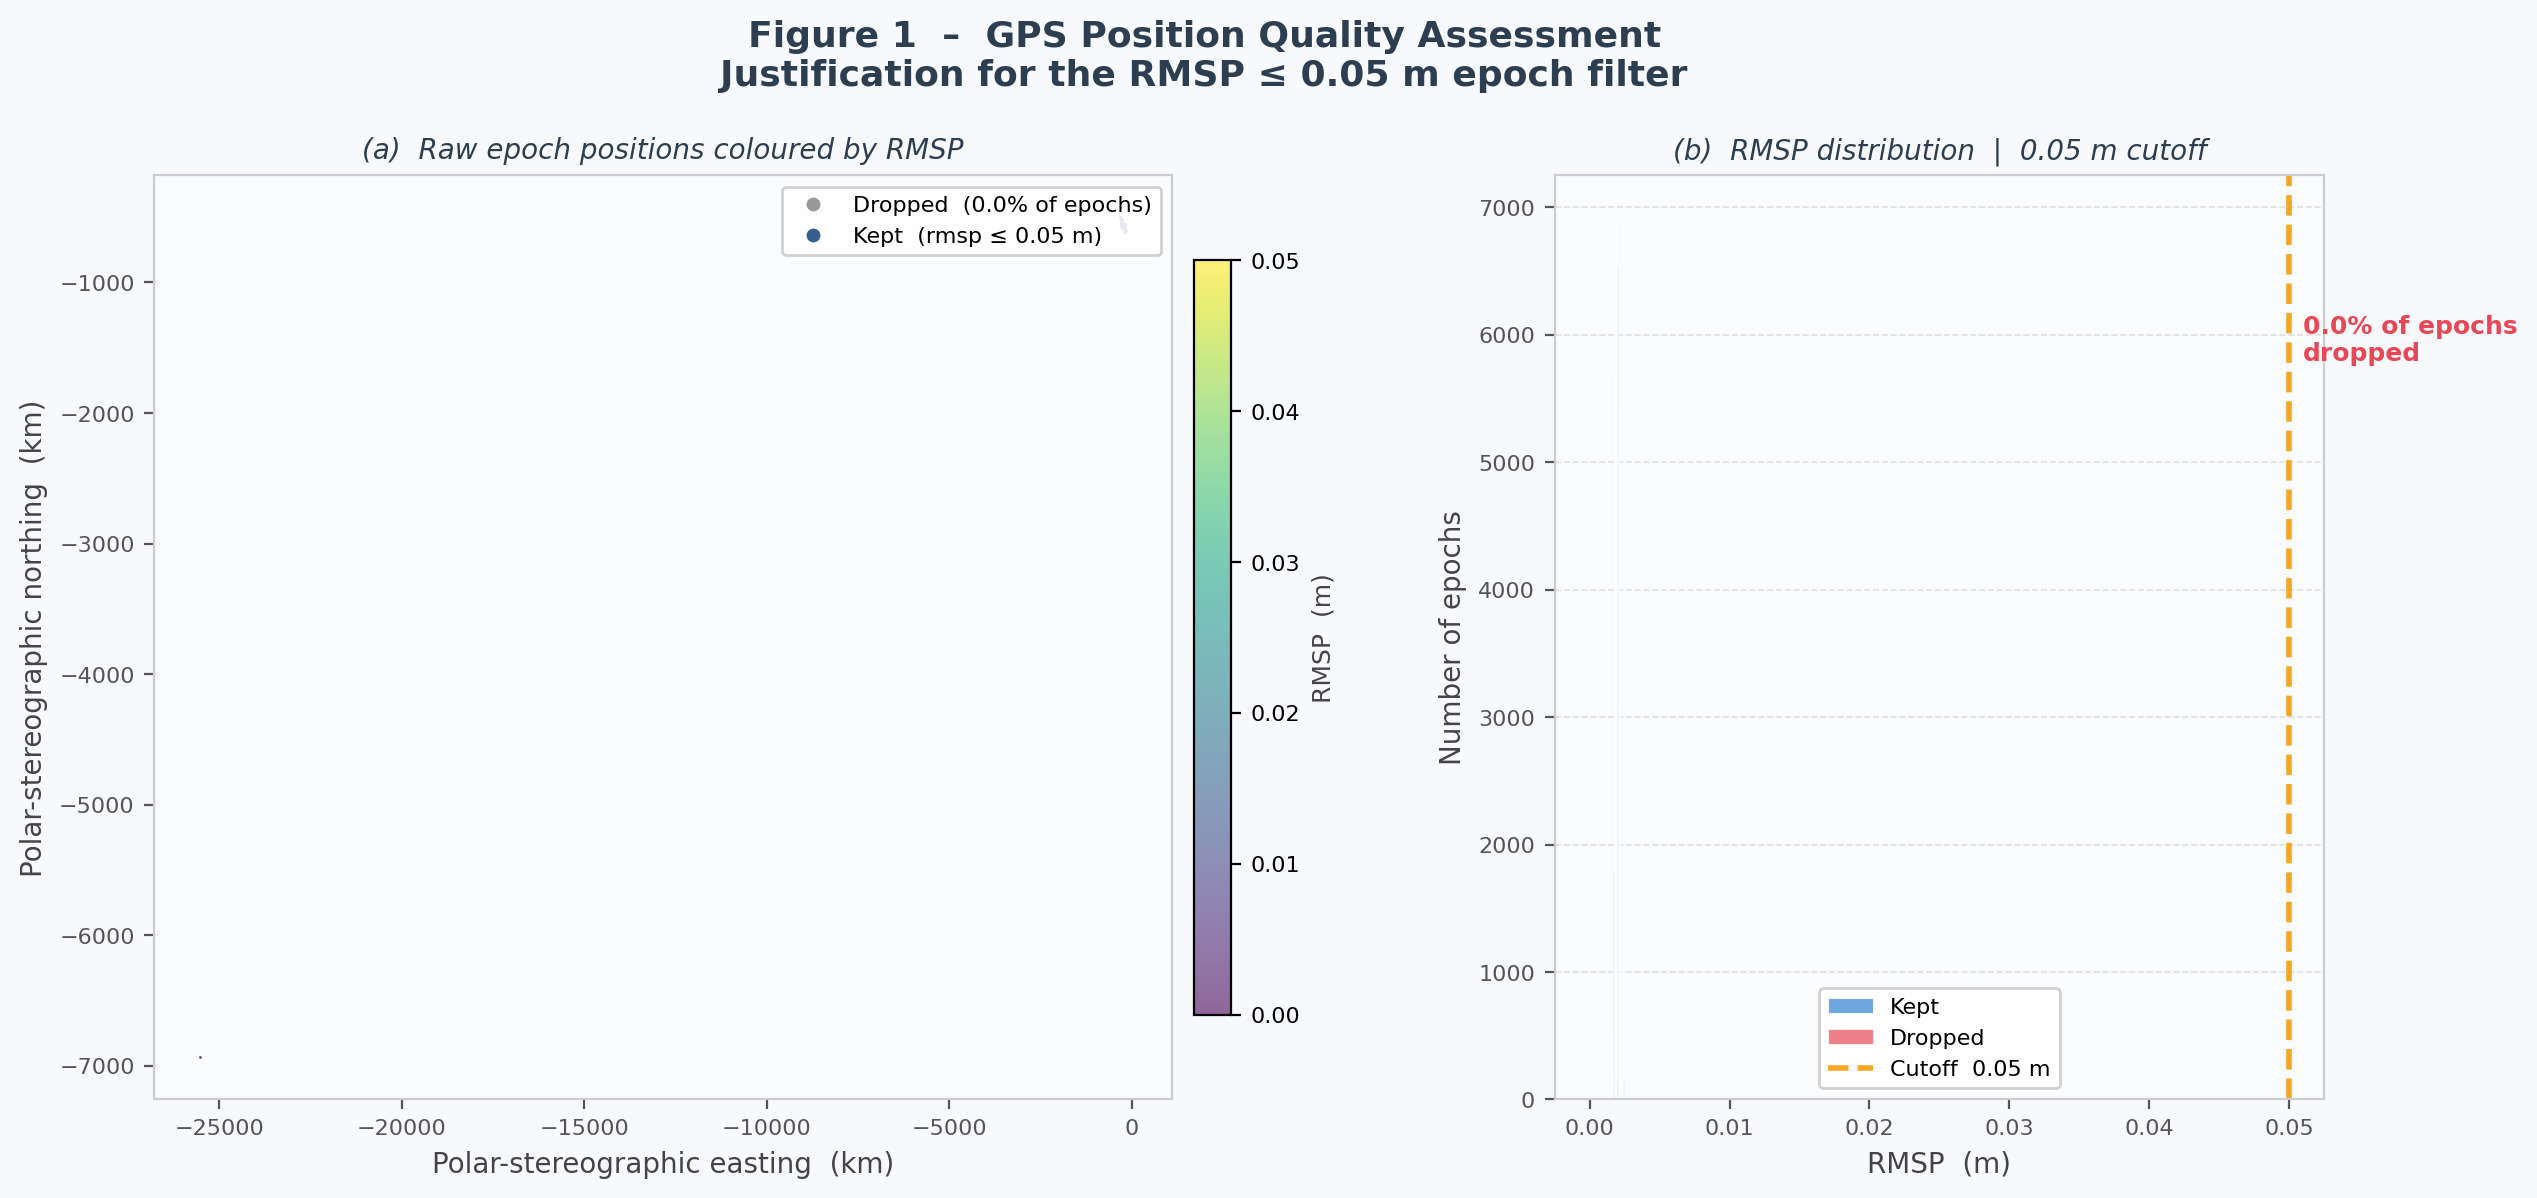
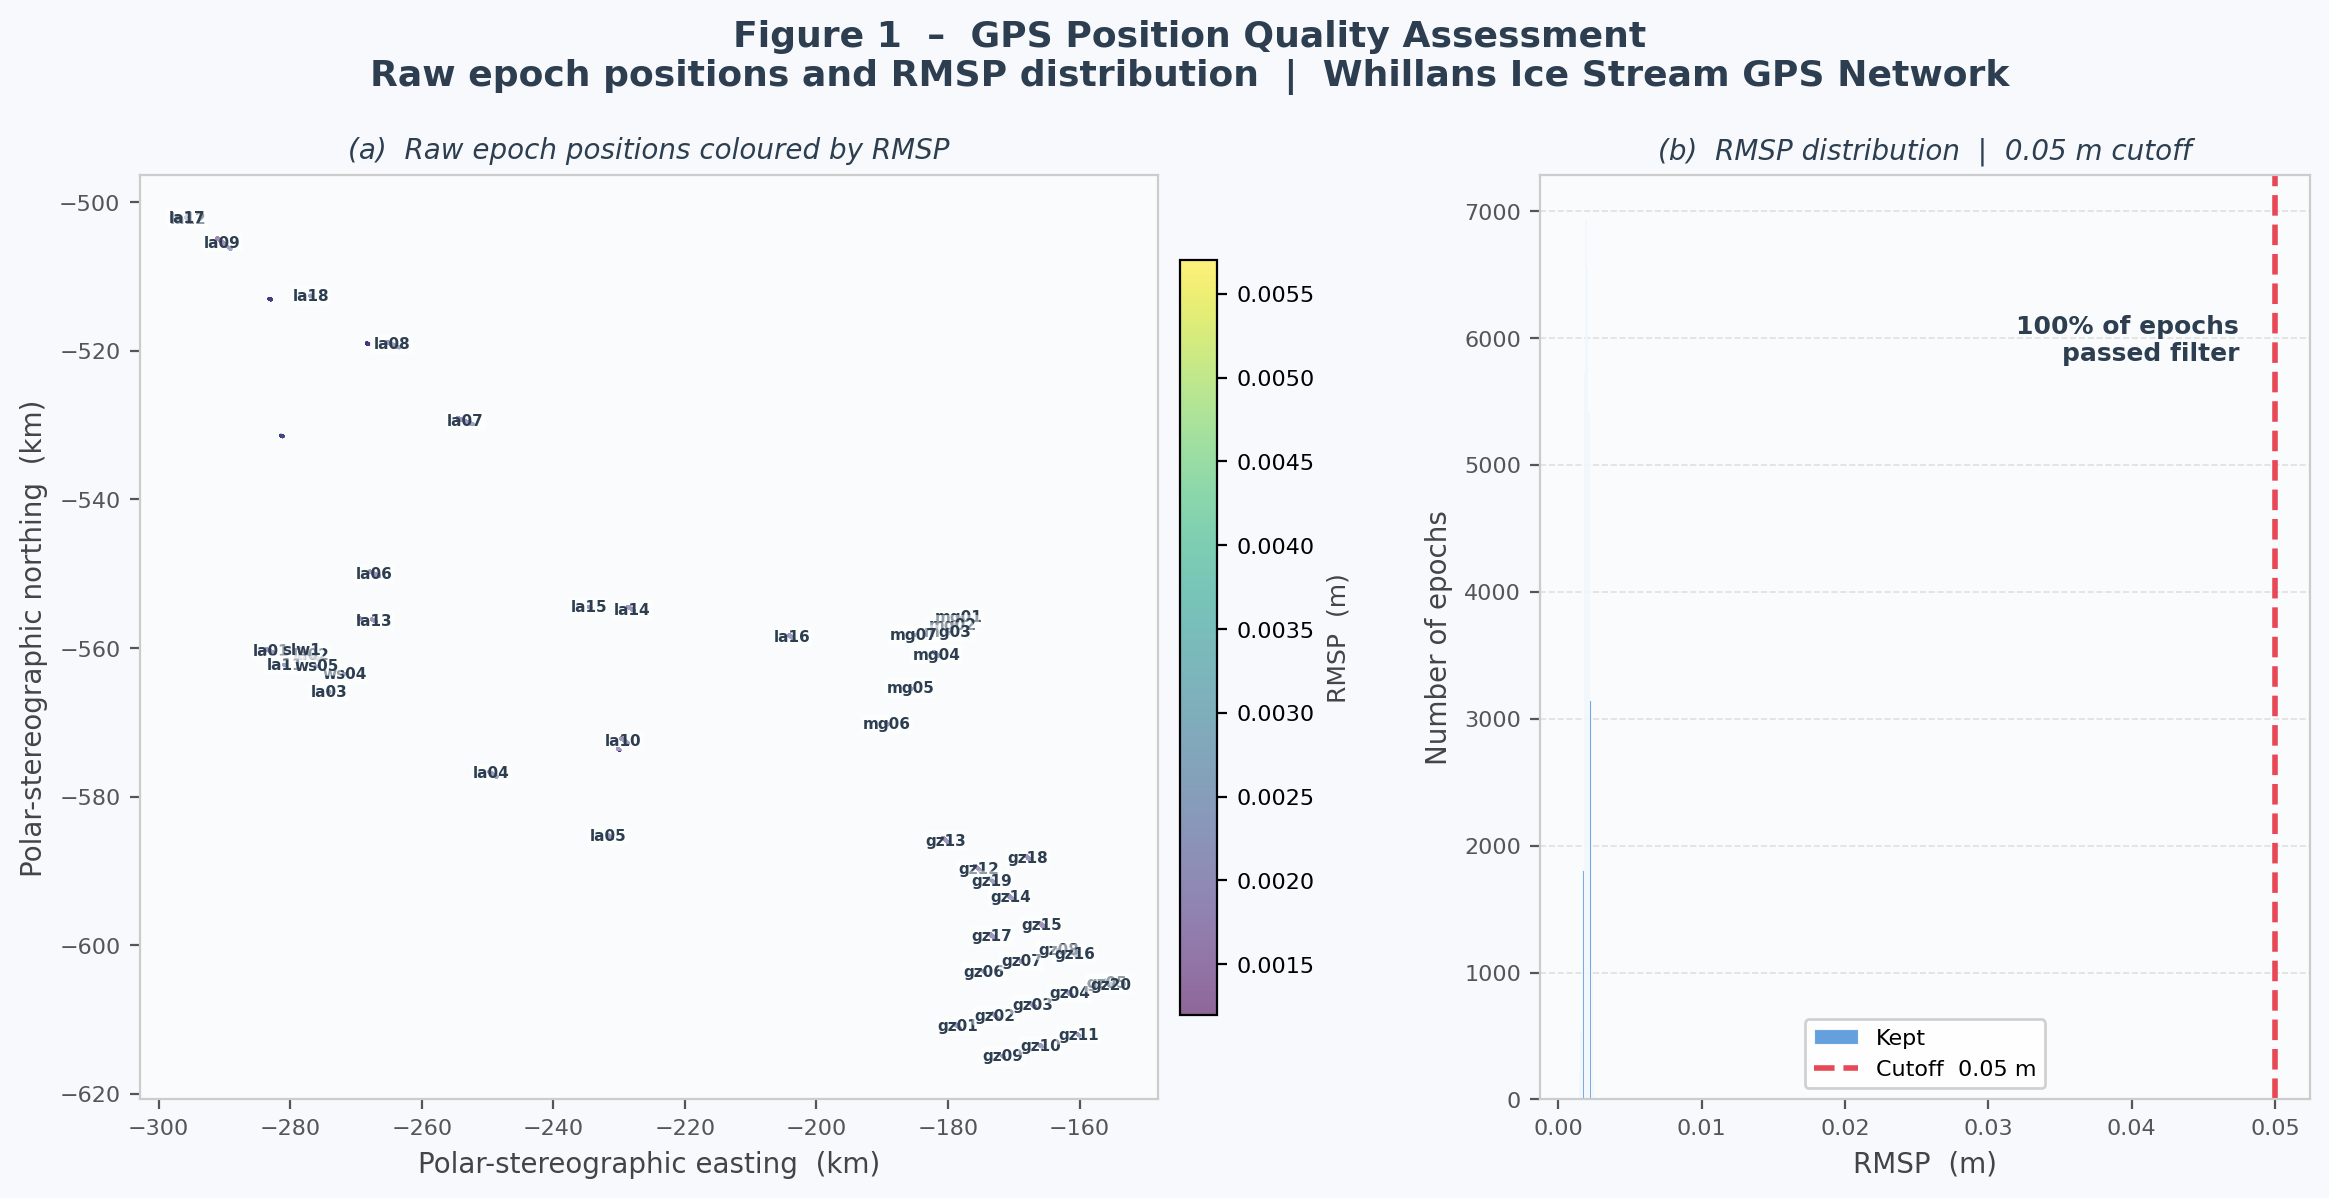
Update Figure 1: position scatter and rmsp histogram with correct data

diff --git a/figure1.py b/figure1.py
@@ -5,35 +5,33 @@ import matplotlib.pyplot as plt
 import matplotlib.colors as mcolors
 from matplotlib.lines import Line2D
 
-# ── paths ─────────────────────────────────────────────────────────────────────
 DATA_FILE  = "Data/ppp_velocity_timeseries.csv"
 OUTPUT_DIR = "figures"
 OUTPUT_FIG = os.path.join(OUTPUT_DIR, "figure1_position_quality.png")
 os.makedirs(OUTPUT_DIR, exist_ok=True)
 
-# ── constants ─────────────────────────────────────────────────────────────────
-RMSP_CUTOFF = 0.05   # metres
+RMSP_CUTOFF = 0.05
 
-# ── load data ─────────────────────────────────────────────────────────────────
-print("Loading data …")
 df = pd.read_csv(DATA_FILE, parse_dates=["timestamp"])
 df = df.dropna(subset=["east", "north", "rmsp"])
-print(f"  Loaded {len(df):,} epochs across {df['station'].nunique()} stations")
+df = df[
+    (df["east"].between(-8e5, 0)) &
+    (df["north"].between(-7e5, -4e5))
+]
+print(f"Loaded {len(df):,} epochs across {df['station'].nunique()} stations")
 
-# ── filter statistics ─────────────────────────────────────────────────────────
 n_total     = len(df)
 n_dropped   = (df["rmsp"] > RMSP_CUTOFF).sum()
 pct_dropped = 100 * n_dropped / n_total
-print(f"  Dropped (rmsp > {RMSP_CUTOFF} m): {n_dropped:,}  ({pct_dropped:.1f}%)")
+print(f"rmsp range: {df['rmsp'].min():.4f} – {df['rmsp'].max():.4f} m")
+print(f"Dropped: {n_dropped} ({pct_dropped:.1f}%)")
 
 kept    = df[df["rmsp"] <= RMSP_CUTOFF]
 dropped = df[df["rmsp"] >  RMSP_CUTOFF]
 
-# ── colour map ────────────────────────────────────────────────────────────────
 CMAP = plt.cm.viridis
-NORM = mcolors.Normalize(vmin=0.0, vmax=RMSP_CUTOFF, clip=True)
+NORM = mcolors.Normalize(vmin=df["rmsp"].min(), vmax=df["rmsp"].max())
 
-# ── figure ────────────────────────────────────────────────────────────────────
 fig, axes = plt.subplots(
     1, 2, figsize=(14, 6), facecolor="#F7F9FC",
     gridspec_kw={"width_ratios": [1.4, 1], "wspace": 0.35},
@@ -41,26 +39,19 @@ fig, axes = plt.subplots(
 
 fig.suptitle(
     "Figure 1  –  GPS Position Quality Assessment\n"
-    "Justification for the RMSP ≤ 0.05 m epoch filter",
+    "Raw epoch positions and RMSP distribution  |  Whillans Ice Stream GPS Network",
     fontsize=13, fontweight="bold", color="#2C3E50", y=1.01,
 )
 
-# ── Panel A: scatter coloured by rmsp ────────────────────────────────────────
 ax = axes[0]
 ax.set_facecolor("#FAFBFC")
 for spine in ax.spines.values():
     spine.set_edgecolor("#CCCCCC")
 
-ax.scatter(
-    dropped["east"] / 1e3, dropped["north"] / 1e3,
-    s=0.5, alpha=0.2, color="#BBBBBB", linewidths=0,
-    rasterized=True, label="Dropped",
-)
 sc = ax.scatter(
-    kept["east"] / 1e3, kept["north"] / 1e3,
-    c=kept["rmsp"], cmap=CMAP, norm=NORM,
-    s=0.8, alpha=0.6, linewidths=0,
-    rasterized=True, label="Kept",
+    df["east"] / 1e3, df["north"] / 1e3,
+    c=df["rmsp"], cmap=CMAP, norm=NORM,
+    s=1.5, alpha=0.6, linewidths=0, rasterized=True,
 )
 
 cbar = fig.colorbar(sc, ax=ax, fraction=0.035, pad=0.02)
@@ -73,37 +64,35 @@ ax.set_title("(a)  Raw epoch positions coloured by RMSP",
              fontsize=10, color="#2C3E50", fontstyle="italic", pad=6)
 ax.tick_params(labelsize=8, colors="#555")
 
-legend_handles = [
-    Line2D([0],[0], marker="o", color="w", markerfacecolor="#999",
-           markersize=6, label=f"Dropped  ({pct_dropped:.1f}% of epochs)"),
-    Line2D([0],[0], marker="o", color="w", markerfacecolor=CMAP(0.3),
-           markersize=6, label="Kept  (rmsp ≤ 0.05 m)"),
-]
-ax.legend(handles=legend_handles, fontsize=8, loc="upper right",
-          framealpha=0.9, edgecolor="#CCCCCC")
+for stn, grp in df.groupby("station"):
+    cx = grp["east"].median() / 1e3
+    cy = grp["north"].median() / 1e3
+    ax.text(cx, cy, stn, fontsize=5.5, ha="center", va="center",
+            color="#2C3E50", fontweight="bold",
+            bbox=dict(boxstyle="round,pad=0.15", fc="white", alpha=0.5, ec="none"))
 
-# ── Panel B: histogram ────────────────────────────────────────────────────────
 ax2 = axes[1]
 ax2.set_facecolor("#FAFBFC")
 for spine in ax2.spines.values():
     spine.set_edgecolor("#CCCCCC")
 
-clip_max = min(df["rmsp"].quantile(0.995) * 1.05, 0.5)
-bins = np.linspace(0, clip_max, 80)
+bins = np.linspace(df["rmsp"].min(), df["rmsp"].max() * 1.05, 60)
 
-ax2.hist(kept["rmsp"], bins=bins, color="#4A90D9", alpha=0.8,
+ax2.hist(kept["rmsp"], bins=bins, color="#4A90D9", alpha=0.85,
          edgecolor="white", linewidth=0.4, label="Kept")
-ax2.hist(dropped["rmsp"].clip(upper=clip_max), bins=bins,
-         color="#E84855", alpha=0.7, edgecolor="white", linewidth=0.4,
-         label="Dropped")
 
-ax2.axvline(RMSP_CUTOFF, color="#F5A623", linewidth=2.0,
+if len(dropped) > 0:
+    ax2.hist(dropped["rmsp"].clip(upper=bins[-1]), bins=bins,
+             color="#E84855", alpha=0.7, edgecolor="white", linewidth=0.4,
+             label="Dropped")
+
+ax2.axvline(RMSP_CUTOFF, color="#E84855", linewidth=2.0,
             linestyle="--", label=f"Cutoff  {RMSP_CUTOFF} m")
 
 ymax = ax2.get_ylim()[1]
-ax2.text(RMSP_CUTOFF + 0.001, ymax * 0.85,
-         f"{pct_dropped:.1f}% of epochs\ndropped",
-         fontsize=9, color="#E84855", fontweight="bold", va="top")
+label = f"{pct_dropped:.1f}% of epochs dropped" if n_dropped > 0 else "100% of epochs\npassed filter"
+ax2.text(RMSP_CUTOFF * 0.95, ymax * 0.85, label,
+         fontsize=9, color="#2C3E50", fontweight="bold", va="top", ha="right")
 
 ax2.set_xlabel("RMSP  (m)", fontsize=10, color="#444")
 ax2.set_ylabel("Number of epochs", fontsize=10, color="#444")
@@ -114,14 +103,6 @@ ax2.yaxis.grid(True, color="#E0E0E0", linestyle="--", linewidth=0.6)
 ax2.set_axisbelow(True)
 ax2.legend(fontsize=8, framealpha=0.9, edgecolor="#CCCCCC")
 
-# ── save ──────────────────────────────────────────────────────────────────────
-plt.savefig(OUTPUT_FIG, dpi=200, bbox_inches="tight",
-            facecolor=fig.get_facecolor())
+plt.savefig(OUTPUT_FIG, dpi=200, bbox_inches="tight", facecolor=fig.get_facecolor())
 print(f"\n✓  Figure saved → {OUTPUT_FIG}")
 plt.close()
-
-
-import pandas as pd
-df = pd.read_csv('Data/ppp_velocity_timeseries.csv')
-print(df['rmsp'].describe())
-print('unique rmsp values sample:', df['rmsp'].unique()[:20])